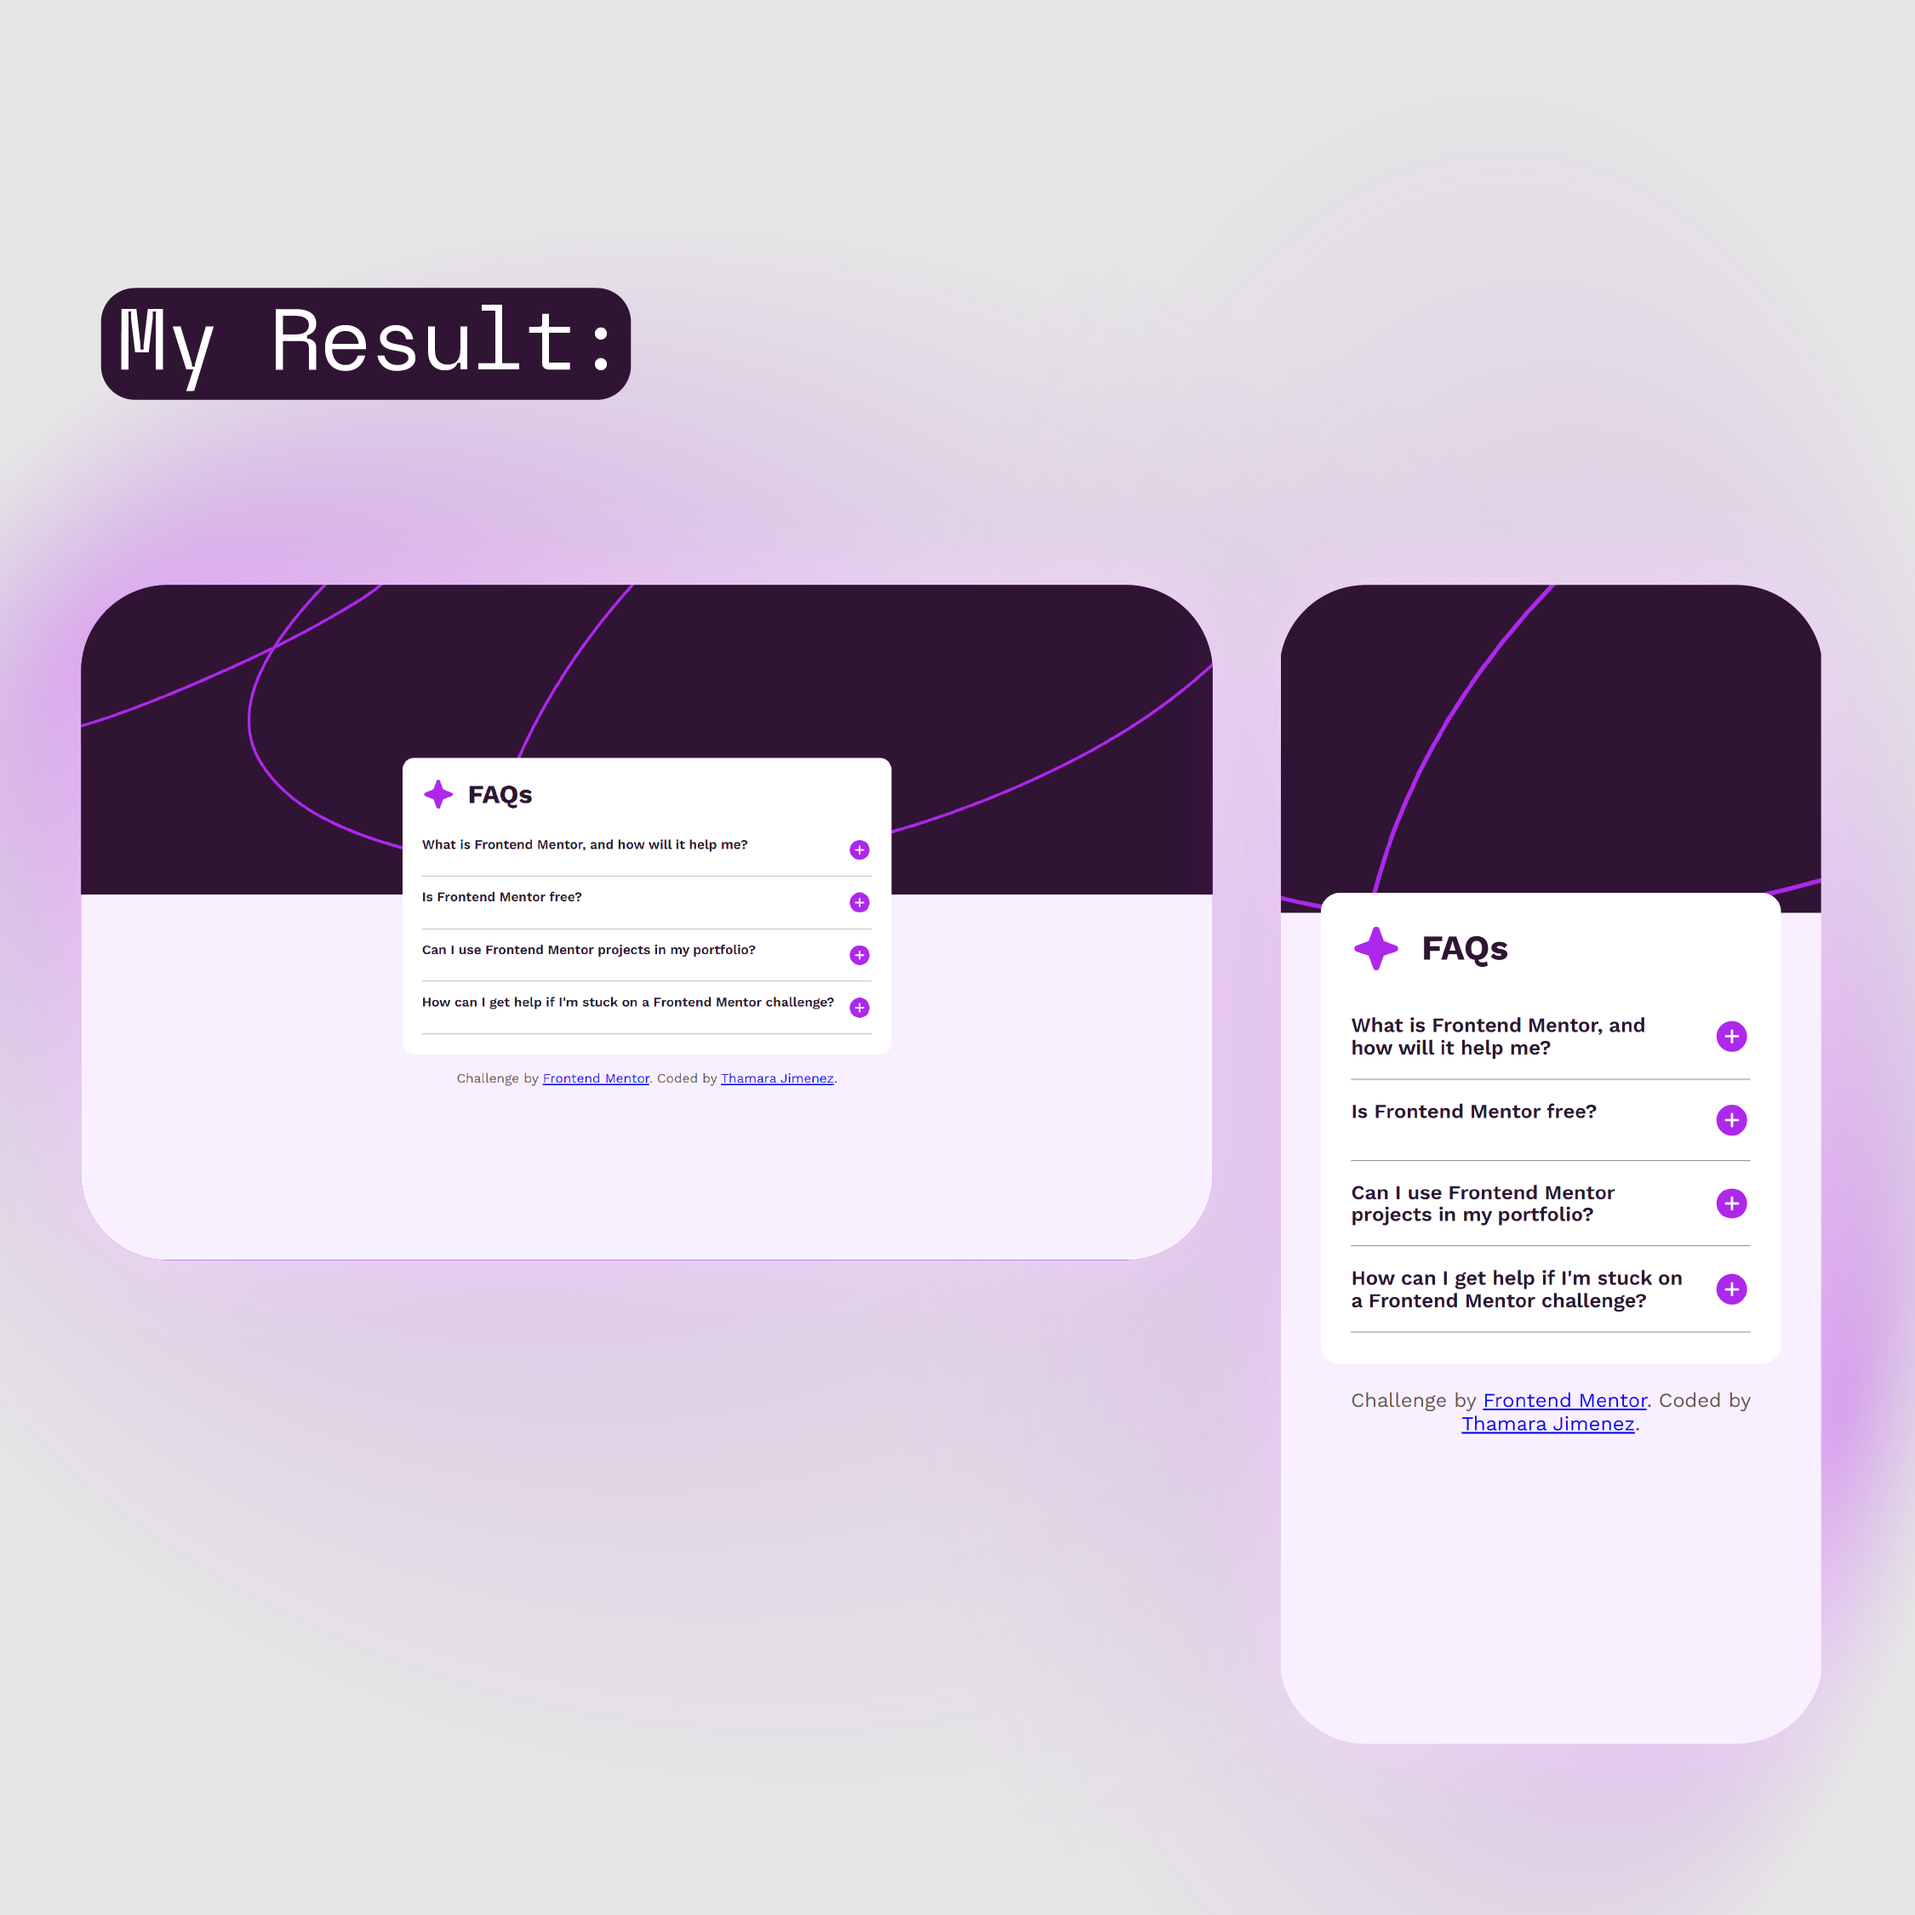
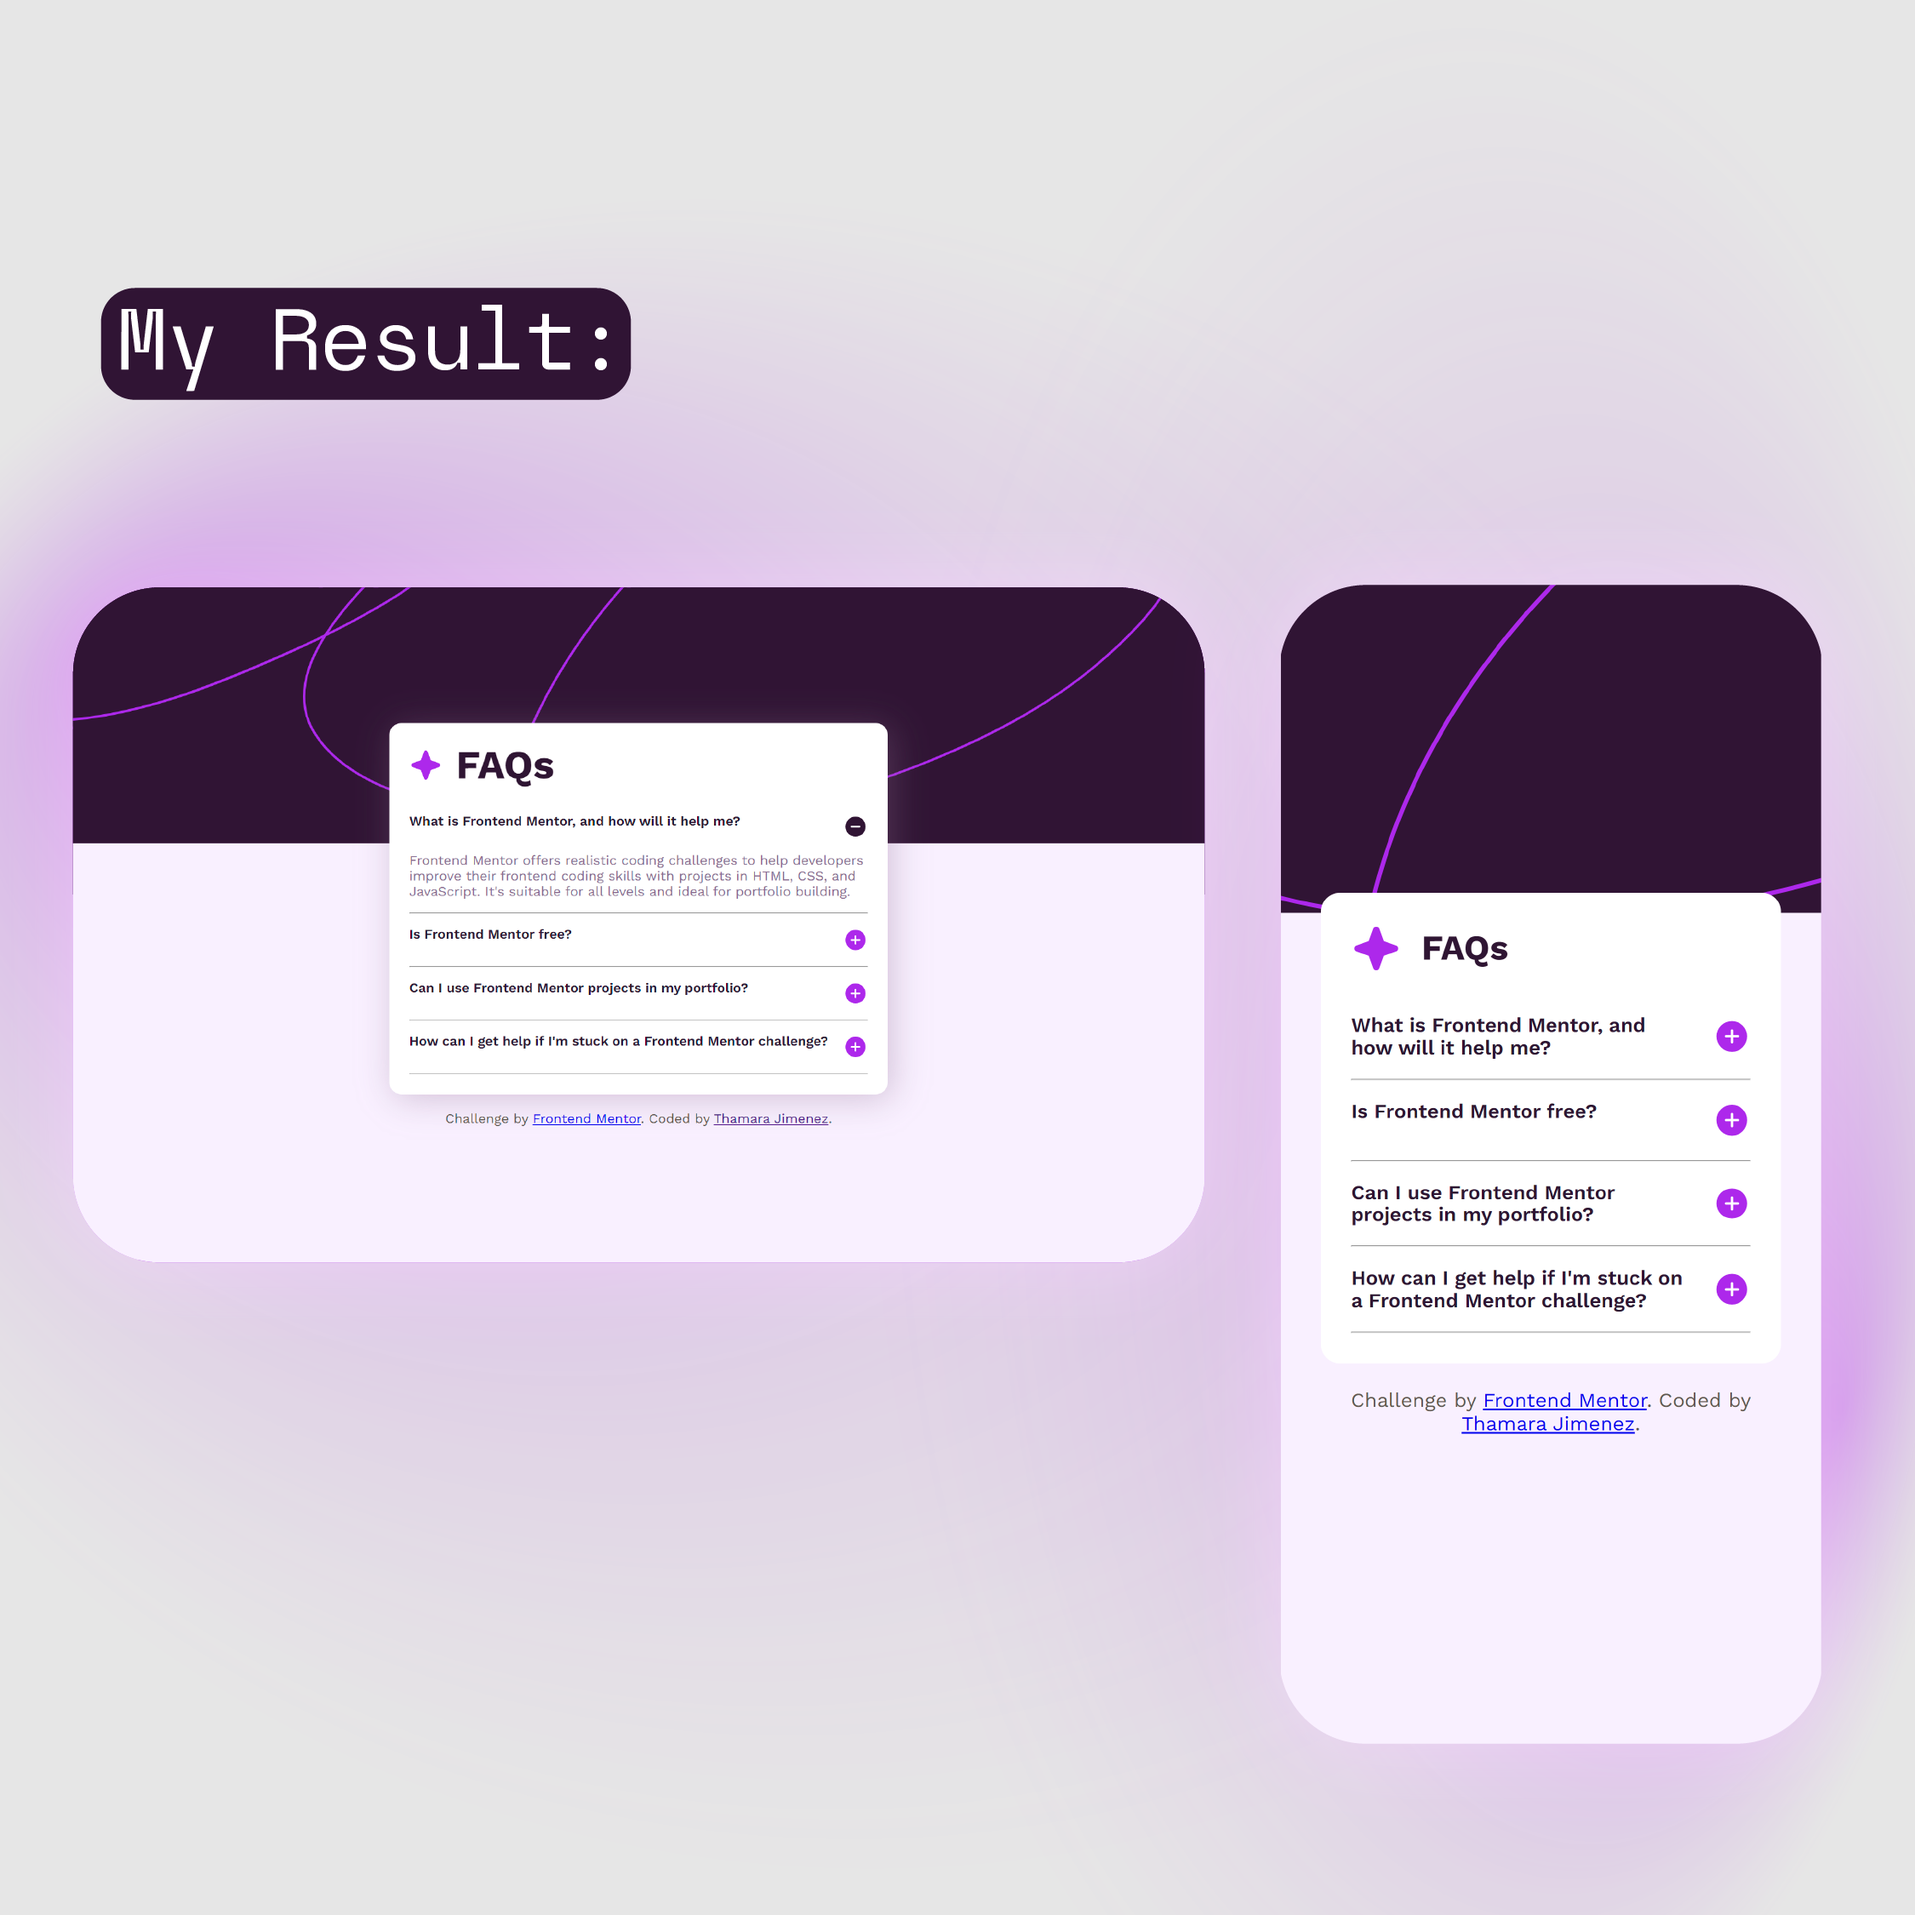
FINISH

Changed region(s): [[0.0311, 0.3111, 0.6533, 0.6533], [0.0933, 0.3111, 0.1867, 0.3733], [0.5911, 0.3111, 0.6222, 0.3422]]

diff --git a/styles.css b/styles.css
@@ -99,6 +99,7 @@ body {
     padding: 1.5rem;
     border-radius: var(--br);
     max-width: 37.5rem;
+    box-shadow: 5px 5px 40px hsla(293, 16%, 49%, 0.347);
 }
 
 .faq-card p {

diff --git a/README.md b/README.md
@@ -9,11 +9,7 @@ This is a solution to the [FAQ accordion challenge on Frontend Mentor](https://w
   - [Screenshot](#screenshot)
   - [Links](#links)
 - [My process](#my-process)
-  - [What I learned](#what-i-learned)
-  - [Continued development](#continued-development)
-  - [Useful resources](#useful-resources)
 - [Author](#author)
-- [Acknowledgments](#acknowledgments)
 
 ## Overview
 
@@ -37,55 +33,12 @@ Users should be able to:
 
 ## My process
 
-
-
-### What I learned
-
-Use this section to recap over some of your major learnings while working through this project. Writing these out and providing code samples of areas you want to highlight is a great way to reinforce your own knowledge.
-
-To see how you can add code snippets, see below:
-
-```html
-<h1>Some HTML code I'm proud of</h1>
-```
-```css
-.proud-of-this-css {
-  color: papayawhip;
-}
-```
-```js
-const proudOfThisFunc = () => {
-  console.log('🎉')
-}
-```
-
-If you want more help with writing markdown, we'd recommend checking out [The Markdown Guide](https://www.markdownguide.org/) to learn more.
-
-**Note: Delete this note and the content within this section and replace with your own learnings.**
-
-### Continued development
-
-Use this section to outline areas that you want to continue focusing on in future projects. These could be concepts you're still not completely comfortable with or techniques you found useful that you want to refine and perfect.
-
-**Note: Delete this note and the content within this section and replace with your own plans for continued development.**
-
-### Useful resources
-
-- [Example resource 1](https://www.example.com) - This helped me for XYZ reason. I really liked this pattern and will use it going forward.
-- [Example resource 2](https://www.example.com) - This is an amazing article which helped me finally understand XYZ. I'd recommend it to anyone still learning this concept.
-
-**Note: Delete this note and replace the list above with resources that helped you during the challenge. These could come in handy for anyone viewing your solution or for yourself when you look back on this project in the future.**
+- __Implement Show/Hide Functionality:__ Use JavaScript to toggle the visibility of the answers and associated elements when a question is clicked.
+- __Responsive Layout:__ Use CSS media queries to adjust the layout based on screen size, ensuring the design adapts for different devices.
+- __Focus and Hover States:__ Apply focus and hover styles to improve user experience and accessibility for interactive elements.
 
 ## Author
 
-- Website - [Add your name here](https://www.your-site.com)
-- Frontend Mentor - [@yourusername](https://www.frontendmentor.io/profile/yourusername)
-- Twitter - [@yourusername](https://www.twitter.com/yourusername)
+- Frontend Mentor - [@ThamaraQueen](https://www.frontendmentor.io/profile/ThamaraQueen)
+- LinkedIn - [Thamara Jimenez](https://www.linkedin.com/in/thamara-jimenez-a60ba9244/)
 
-**Note: Delete this note and add/remove/edit lines above based on what links you'd like to share.**
-
-## Acknowledgments
-
-This is where you can give a hat tip to anyone who helped you out on this project. Perhaps you worked in a team or got some inspiration from someone else's solution. This is the perfect place to give them some credit.
-
-**Note: Delete this note and edit this section's content as necessary. If you completed this challenge by yourself, feel free to delete this section entirely.**
